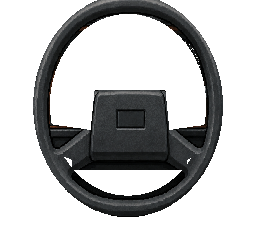
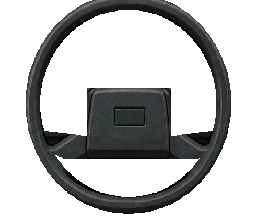
Viatura: cabine a partir do interior completo desenhado pelo Victor
- Nova arte do interior inteiro: coluna da porta, porta com retrovisor externo e
  vidro lateral transparente, saídas de ar, painel, rádio; volante centralizado.
- Topo do aro que passa da linha do painel removido do topo (céu atrás dele) e
  sem painel atrás do aro acima do para-brisa: nada fica para trás ao girar.
- Ponteiros, hodômetro e P R N D 2 1 reposicionados na nova arte; números dos
  mostradores um pouco mais afastados das marcações.

Claude-Session: https://claude.ai/code/session_01MLD9VR7gkmY4w6a9beZcp6

Changed region(s): [[0.0938, 0.0, 0.9062, 0.9818], [0.4375, 0.4636, 0.5625, 0.6]]

diff --git a/src/cockpit.ts b/src/cockpit.ts
@@ -82,12 +82,12 @@ const COCKPIT_ART: Record<string, CockpitArt> = {
 // Viatura: painel de sedã com hodômetro e indicador da alavanca funcionando
 COCKPIT_ART.patrol = {
   dash: cp('patrol-dash'), top: cp('patrol-top'), wheel: cp('patrol-wheel'),
-  pivot: [128, 105.6], speedMax: 240, needle: '#ff2a1a', hub: '#1a1a1c', aux: [],
-  // redesenhados nítidos sobre a arte (reduzida, ela borra); escala como na arte: do 0 (146°)
-  // ao fim (≈ 36°), 250° de abertura, números em pixel inteiro
-  tach: { x: 91, y: 66, r: 25, max: 8, labels: [0, 1, 2, 3, 4, 5, 6, 7, 8], tick: 0.5, red: 6, a0: 2.55, sweep: 4.36, labelScale: 1 },
-  speed: { x: 176, y: 66, r: 25, max: 240, labels: [0, 40, 80, 120, 160, 200, 240], tick: 10, red: 999, a0: 2.55, sweep: 4.36, labelScale: 1 },
-  odo: { x: 119, y: 44, w: 27, h: 11 }, prnd: { x: 120, y: 60, w: 26, h: 8 },
+  pivot: [128.2, 103.1], speedMax: 240, needle: '#ff2a1a', hub: '#1a1a1c', aux: [],
+  // redesenhados nítidos sobre a arte (reduzida, ela borra); escala como na arte: do 0 (≈ 148°)
+  // ao fim (≈ 30°), 242° de abertura, números em pixel inteiro
+  tach: { x: 87, y: 65, r: 27, max: 8, labels: [0, 1, 2, 3, 4, 5, 6, 7, 8], tick: 0.5, red: 6, a0: 2.6, sweep: 4.22, labelScale: 1 },
+  speed: { x: 179, y: 65, r: 27, max: 240, labels: [0, 40, 80, 120, 160, 200, 240], tick: 10, red: 999, a0: 2.55, sweep: 4.25, labelScale: 1 },
+  odo: { x: 118, y: 43, w: 32, h: 11 }, prnd: { x: 118, y: 59, w: 32, h: 8 },
 };
 
 // Corvette C4: arte do Victor com os visores de LCD redesenhados funcionando
@@ -209,7 +209,7 @@ function artDial(c: CanvasRenderingContext2D, d: Dial, ox: number, frac: number,
     // altura no alto), para os de cima não se encostarem
     const a = fr(v);
     const ls = d.labelScale ?? 0.5;
-    const [lx, ly] = at(a, r - 2.3 - (Math.abs(Math.cos(a)) * pixWidth(l, ls) * 0.5 + Math.abs(Math.sin(a)) * 2.5 * ls) * (ls > 0.5 ? 1.3 : 1) - (ls > 0.5 ? 0.6 : 0));
+    const [lx, ly] = at(a, r - (ls > 0.5 ? 3.2 : 2.3) - (Math.abs(Math.cos(a)) * pixWidth(l, ls) * 0.5 + Math.abs(Math.sin(a)) * 2.5 * ls) * (ls > 0.5 ? 1.3 : 1) - (ls > 0.5 ? 0.6 : 0));
     pix(c, l, lx, ly, v >= d.red ? '#ff5a4a' : '#f2f2f2', ls);
   }
   needle(c, cx, cy, r, a0 + sweep * Math.max(0, Math.min(1.02, frac)), art);

diff --git a/tools/ref/import_cockpit.py b/tools/ref/import_cockpit.py
@@ -33,17 +33,16 @@ CARS = {
         'pillar': (-50, 0.0),                # BGR do pilar, onde a arte acaba          # hodômetro (não é velocímetro digital)
         'gauges': {'tach': (696, 211, 84), 'speed': (876, 228, 72)},
     },
-    # viatura: a arte acaba logo à esquerda do volante; o painel se estende repetindo a borda
+    # viatura: interior completo desenhado pelo Victor (porta, painel, console e passageiro)
     'patrol': {
-        'scale': 0.2, 'x0': -133, 'y0': 198,   # volante inteiro no centro, com o miolo à vista
-        'gauges': {'tach': (324, 491, 127), 'speed': (751, 491, 127)},
+        'scale': 0.48, 'x0': 218, 'y0': 212,   # volante centralizado, inteiro, com o miolo à vista
+        'gauges': {'tach': (400, 332, 57), 'speed': (591, 332, 57)},
         # hodômetro e indicador de marcha: fundo liso, o jogo desenha os números funcionando
-        'lcd': [((26, 26, 28), (462, 389, 598, 438)), ((26, 26, 28), (466, 462, 598, 494))],
-        'top_art': [],  # coluna da porta segue a arte até o teto
-        'left': 'replicate', 'right': 'replicate',
-        'sky_above': 236,   # nas colunas fora da arte, acima do painel é vidro (estrada à vista)
-        'hub_fill': ((27, 28, 31), 575),   # atrás do miolo do volante: cor lisa (a coluna é desenhada depois)
-        'wheel_rows': 230, 'paint': 'patrol', 'rim_margin': 11,
+        'lcd': [((28, 29, 31), (464, 291, 530, 311)), ((28, 29, 31), (464, 320, 530, 334))],
+        'top_art': [(690, 0, 990, 140)],   # sem o retrovisor interno (o jogo tem o seu)
+        'hub_fill': ((27, 28, 31), 370),   # atrás do miolo: cor lisa, a coluna de direção é desenhada depois
+        'wheel_rows': 220, 'paint': 'column', 'rim_margin': 9,
+        'sky_left': True, 'hole_sky_above': 228,
     },
     # Corvette C4: painel digital (os visores de LCD são redesenhados funcionando no jogo)
     'zr1': {
@@ -176,7 +175,18 @@ def paint_patrol(rgb, a, art_l, art_r, pivot, hub):
     for x in range(lx - 6, lx + 6):
         put(x, 65, '#0e0f10')
         put(x, 66, '#8a8c90')
-    # ---- coluna de direção (aparece entre os raios quando o volante gira) ----
+    paint_column(rgb, a, pivot, hub)
+
+
+def paint_column(rgb, a, pivot, hub):
+    """Coluna de direção e painel dos joelhos atrás do miolo (aparece quando o volante gira)."""
+    H, W = a.shape
+
+    def put(x, y, c):
+        if 0 <= x < W and 0 <= y < H:
+            rgb[y, x] = hexrgb(c)
+            a[y, x] = 255
+
     px, py = pivot
     for y in range(int(py) - 18, H):
         for x in range(W):
@@ -302,6 +312,10 @@ def main():
     for x in range(0, w, 8):
         if ff[0, x] == 1:
             cv2.floodFill(ff, msk, (x, 0), 2)
+    if cfg.get('sky_left'):  # vidro lateral: branco ligado à borda esquerda também é transparente
+        for y in range(0, h, 4):
+            if ff[y, 0] == 1:
+                cv2.floodFill(ff, msk, (0, y), 2)
     sky = ff == 2
     if 'sky_above' in cfg:
         pc = padcols[x0 + pad_x0:x1 + pad_x0]
@@ -316,6 +330,8 @@ def main():
     seeds[lab[hole == 0]] = sky[hole == 0]
     sky0 = sky
     sky = sky | ((hole > 0) & seeds[lab])
+    if 'hole_sky_above' in cfg:  # o aro passa por cima do para-brisa: atrás dele é céu, não painel
+        sky |= (hole > 0) & ((yy + (y0 - tpad)) < cfg['hole_sky_above'])
     # ponteiros e lataria vermelhos perto do aro não entram na reconstrução (viram manchas)
     near = cv2.dilate(hole, np.ones((41, 41), np.uint8)) > 0
     fill = cv2.inpaint(img, ((~known) | (hot & near)).astype(np.uint8) * 255, 7, cv2.INPAINT_TELEA)
@@ -332,13 +348,16 @@ def main():
     nw, nh = 256 + 2 * PAD, ROWS
     d_rgb = sample(cv2.cvtColor(dash, cv2.COLOR_BGR2RGB), nw, nh)
     d_a = sample((~sky).astype(np.uint8) * 255, nw, nh)
-    if cfg.get('paint') == 'patrol':
+    if cfg.get('paint') in ('patrol', 'column'):
         pivot_n = ((geo['center'][0] - xc0) / px_w + PAD, (geo['center'][1] - (y0 - tpad)) / px_h)
         hub_n = sample(hub.astype(np.uint8), nw, nh) > 0
         art_l = int(np.ceil(PAD + (0 - xc0) / px_w)) + 1
         art_r = int(np.floor(PAD + (full.shape[1] - xc0) / px_w)) - 1
-        paint_patrol(d_rgb, d_a, art_l, art_r, pivot_n, hub_n)
-        patrol_mirror = (art_l, int(np.argmax(d_a[:, art_l + 30] > 0)) + 2)
+        if cfg['paint'] == 'patrol':
+            paint_patrol(d_rgb, d_a, art_l, art_r, pivot_n, hub_n)
+            patrol_mirror = (art_l, int(np.argmax(d_a[:, art_l + 30] > 0)) + 2)
+        else:
+            paint_column(d_rgb, d_a, pivot_n, hub_n)
     Image.fromarray(np.dstack([d_rgb, d_a]), 'RGBA').save(f'{outdir}/{car}-dash.png')
     # a arte acaba antes do teto: a coluna da porta é prolongada para cima (linha 0 do
     # painel repetida e deslocada pela inclinação da coluna) até a linha 24 da tela
@@ -351,7 +370,16 @@ def main():
             for yy_ in (0, th_ - 1):
                 if tsky[yy_, x] == 1:
                     cv2.floodFill(tsky, tm, (x, yy_), 2)
+        if cfg.get('sky_left'):
+            for y_ in range(0, th_, 4):
+                if tsky[y_, 0] == 1:
+                    cv2.floodFill(tsky, tm, (0, y_), 2)
         talpha = tsky != 2
+        if 'hole_sky_above' in cfg:  # topo do aro que passa da linha 100: no topo fica só o céu
+            tw = np.zeros((th_, tw_), np.uint8)
+            cv2.fillPoly(tw, [(np.array(geo['outer'], np.float32) - [x0, ty0 - tpad]).round().astype(np.int32)], 1)
+            tw = cv2.dilate(tw, np.ones((cfg.get('rim_margin', 7) + 10,) * 2, np.uint8))
+            talpha[tw > 0] = False
         talpha[:, padcols[x0 + pad_x0:x1 + pad_x0]] = False  # acima das colunas repetidas, só céu
         for (a, b, c, d) in cfg['top_art']:
             a, c = a - x0 + pad_x0 - pad_x0, c - x0
